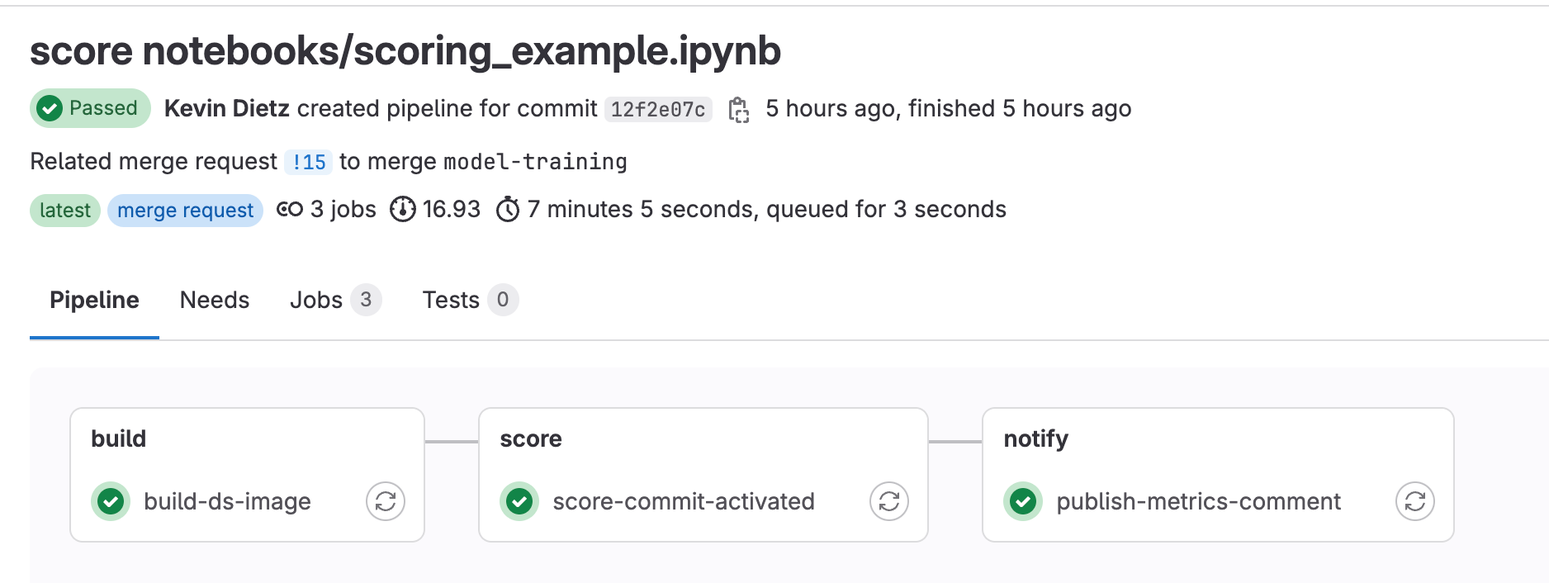
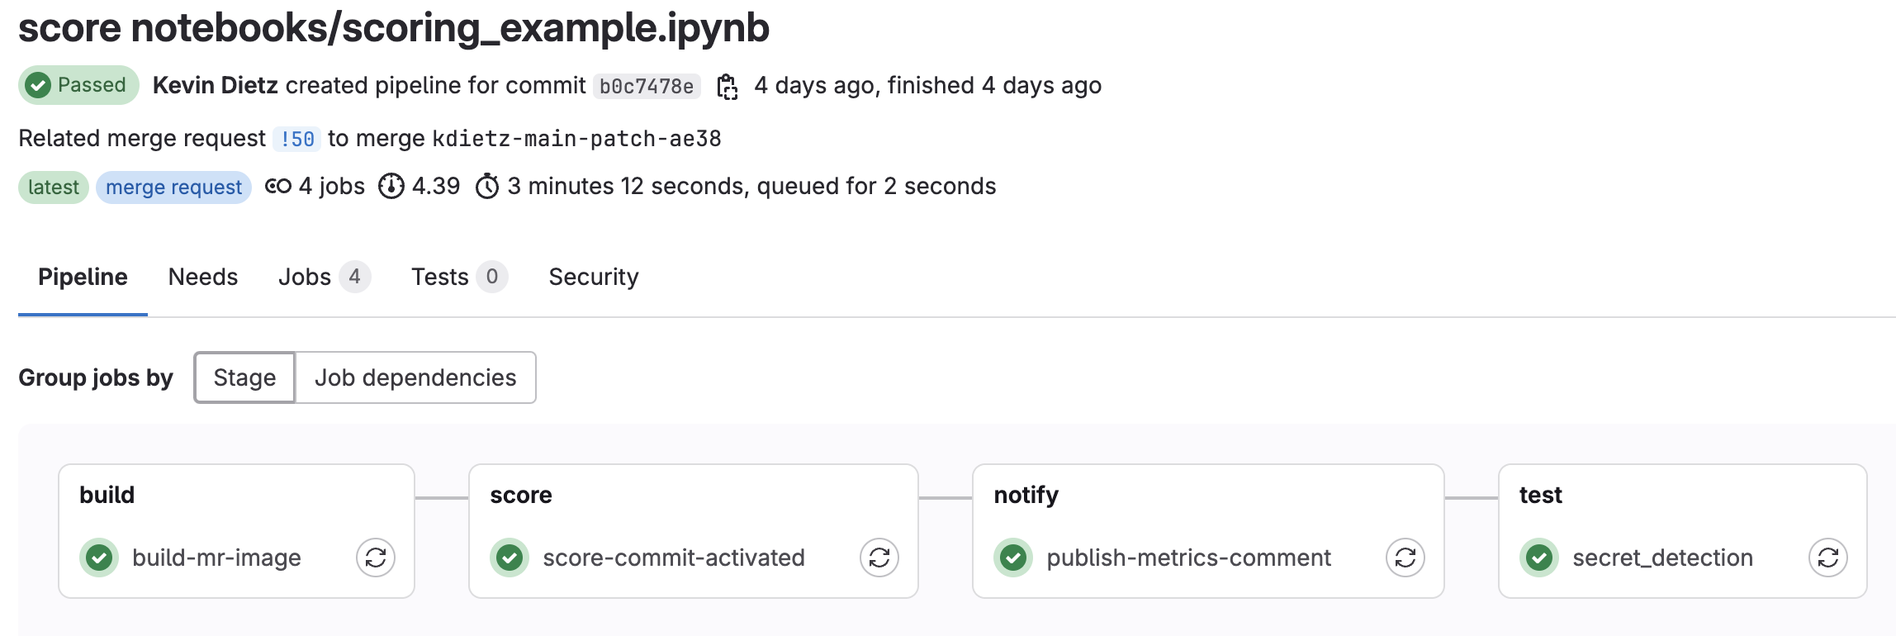
Update DS Pipeline Instructions

diff --git a/content/handbook/business-technology/data-team/platform/ci-for-ds-pipelines/index.md b/content/handbook/business-technology/data-team/platform/ci-for-ds-pipelines/index.md
@@ -7,7 +7,7 @@ description: "How to Run Data Science Pipelines Using GitLab CI/CD"
 
 ## Our Approach to Using CI/CD For Data Science
 
-When it comes to training and scoring machine learning models, there are trade-offs to using your local machine vs. CI. Our approach is flexible to allow users to do both.
+When it comes to training, scoring, and deploying machine learning models, there are trade-offs to using your local machine vs. CI. Our approach is flexible to allow users to do both.
 
 - When executing training or scoring runs on your local machine, users will be able to:
   - Execute training or scoring code using local resources and python builds specific to the machine
@@ -16,18 +16,18 @@ When it comes to training and scoring machine learning models, there are trade-o
   - Commit changes to the repository that will ***not*** trigger a CI pipeline
 
 - When executing training or scoring runs remotely using GitLab CI/CD, users will be able to:
-  - Select CPU or GPU compute instance based on the needs of the model
+  - Select CPU or GPU runners based on the size and needs of the model
   - Automatically detect and rebuild the model image based on changes to **Dockerfile** or **requirements.txt**
+  - Use different containers for different models in development, staging, and production
   - Log, view, and retrieve experiments in your preferred experiment tracker
-  - Upload and download model artifacts directly to the GitLab package registry
+  - Upload and download model artifacts directly to the GitLab model registry
   - Automatically report model metrics and performance in the merge request for review by others.
-  - Commit changes to the repository and automatically trigger training CI pipelines based on a specific commit message
+  - Commit changes to the repository and automatically trigger CI pipelines based on a specific commit message
     - Training CI pipelines only execute with the following commit message: `train <path/to/notebook/your_notebook.ipynb>`
-    - Allows the pipeline to execute just the desired notebook
-  - Commit changes to the repository and automatically trigger the scoring CI pipeline based on a specific commit message
     - Scoring CI pipeline only executes with the following commit message: `score <path/to/notebook/your_notebook.ipynb>`
+    - Allows the pipeline to execute just the desired notebook
   - Allow training and scoring CI pipelines to run at set dates and times using [Scheduled pipelines](https://docs.gitlab.com/ee/ci/pipelines/schedules.html)
-  - Log pipeline results to [Project wiki](https://docs.gitlab.com/ee/user/project/wiki/)
+  - Log results to [Project wiki](https://docs.gitlab.com/ee/user/project/wiki/)
   - Use [GitLab for Slack](https://docs.gitlab.com/ee/user/project/integrations/gitlab_slack_application.html) integration to monitor pipeline status
 
 ### Advantages of Using CI for Training Data Science Models
@@ -35,6 +35,7 @@ When it comes to training and scoring machine learning models, there are trade-o
 - Reproducibility
 - Automation
 - Speed
+- Separate development, staging, and production environments
 - Logging results directly to Merge Request and Project Wiki
 - Scalable GPU and CPU resources
 - Scheduling
@@ -42,21 +43,19 @@ When it comes to training and scoring machine learning models, there are trade-o
 
 ## Getting Started
 
-This section covers, in detail, the mechanisms behind how these pipelines is created and configured. **If you are just interested in getting your data science CI training pipeline up and running, skip directly to the [Model Training Step-by-Step Instructions](/handbook/business-technology/data-team/platform/ci-for-ds-pipelines#model-training-step-by-step-instructions)**
-
-**If you are just interested in getting your data science CI scoring pipeline up and running, skip directly to the [Scoring and Productionalization Step-by-Step Instructions](/handbook/business-technology/data-team/platform/ci-for-ds-pipelines#scoring-and-productionalization-step-by-step-instructions)**
+This section covers, in detail, the mechanisms behind how these pipelines are created and configured. **If you are just interested in getting your data science CI training pipeline up and running, skip directly to the [Model Training Step-by-Step Instructions](/handbook/business-technology/data-team/platform/ci-for-ds-pipelines#step-by-step-instructions). If you are just interested in getting your data science CI scoring pipeline up and running, skip directly to the [Scoring Step-by-Step Instructions](/handbook/business-technology/data-team/platform/ci-for-ds-pipelines#scoring-setup) and [Model Deployment with CI/CD](/handbook/business-technology/data-team/platform/ci-for-ds-pipelines#model-deployment-with-cicd) sections**
 
 ### Key Repository Files
 
 Within our public **[GitLab Data Science CI Example](https://gitlab.com/gitlab-data/data-science-ci-example)** repository are the following key files:
 
-- **.gitlab-ci.yml**: This is the CI/CD configuration file that define the jobs that define the jobs that will be run in each pipeline. The actual pipelines are pulled from the [CI/CD Component Catelog](https://gitlab.com/explore/catalog/gitlab-data/ds-component-pipeline), with only the variables that need specified by the user set in this .yml.
-- **Dockerfile**: Instructions for creating the docker image. Here we are using python 3.9 running on Ubuntu 22.04 with CUDA drivers for GPU
-- **requirements.txt**: The python packages to install in the docker container
+- **.gitlab-ci.yml**: This is the CI/CD configuration file that defines the jobs that will be run for each pipeline. The actual pipelines are pulled from the [CI/CD Component Catalog](https://gitlab.com/explore/catalog/gitlab-data/ds-component-pipeline), with only the variables that need specified are set in this .yml.
+- **Dockerfile**: Instructions for creating the docker image used in the Container Registry. Here we are using python 3.9 running on Ubuntu 22.04 with CUDA drivers for GPU
+- **requirements.txt**: The python packages to install in the container
 - **training_config.yaml**: Configuration for training notebook
 - **scoring_config.yaml**: Configuration for scoring notebook
 - **notebooks/training_example.ipynb**: training notebook used for this example
-- **notebooks/scoring_example.ipynb**: scoring code productionalization notebook used for this example
+- **notebooks/scoring_example.ipynb**: scoring code notebook used for this example
 - **xgb_model.json**: The saved model from training that will be used for scoring (Note: in future iterations this will be pulled directly from the [Model Registry](https://docs.gitlab.com/ee/user/project/ml/model_registry/))
 
 ## Model Training with CI/CD
@@ -64,11 +63,14 @@ Within our public **[GitLab Data Science CI Example](https://gitlab.com/gitlab-d
 ### Training Pipeline
 
 1. **Build**
-   - **build-ds-image**: activated whenever changes are made to the **Dockerfile** or **requirements.txt** files. This will rebuild the image used to train the model
+   - **build-new-image**: activated whenever changes are made to the **Dockerfile** or **requirements.txt** files. This will rebuild the image used in the MR to train the model
+   - **build-mr-image**: Checks if a image exists in the Container Registry for the MR. If not, one will be built.
 2. **Train**
    - **train-commit-activated**: To execute a training pipeline. Activated by using the `train <path/to/notebook/your_notebook.ipynb>` commit message
 3. **Notify** (optional)
-   - **publish-metrics-comment**: Write model metrics as a comment to the merge request. This is executed after a training or scoring run is performed via commit message.
+   - **publish-metrics-comment**: Write model metrics as a comment to the merge request. This is executed after a training or scoring run is performed through the commit message method.
+4. **Test** (optional)
+   - **secret_detection**: [Pipeline secret detection](https://docs.gitlab.com/ee/user/application_security/secret_detection/) to scan for potential exposed secrets in your pipeline
 
 ![CI Jobs](ci-pipelines.png)
 
@@ -78,10 +80,10 @@ Let's take a detailed look at the repository (**Code -> Repository**):
 
 - In the **notebooks** directory, open [training_example.ipynb](https://gitlab.com/gitlab-data/data-science-ci-example/-/blob/main/notebooks/training_example.ipynb). We do not need to change anything in here, but note the first cell of the notebook. [Papermill](https://papermill.readthedocs.io/en/latest/#) will be used to execute this notebook in the CI pipeline and this cell has been tagged as `parameters` to allow Papermill to change these values. There are 3 variables with preset values:
   - `is_local_development = True`: The default assumption is that the notebook is being run locally. The CI pipeline will modify this value to `False` automatically so the notebook can be optimized to run in CI
-  - `tree_method = 'auto'`: The default value for xgboost. The CI pipeline changes this value to `gpu_hist` when using a GPU runner in CI to take advantage certain performance enhancements. The assumption that is the model will train via CPU when run locally due to lack of a compatible local GPU.
+  - `tree_method = 'auto'`: The default value for xgboost. The CI pipeline changes this value to `gpu_hist` when using a GPU runner in CI to take advantage certain performance enhancements. The assumption that is the model will train with CPU when run locally due to lack of a compatible local GPU.
   - `notebook_dir = 'notebooks'`: The directory of the training notebooks. This value is the same locally as it is the CI pipeline.
 - To see exactly how the CI pipeline changes these values, let's view [.gitlab-ci.yml](https://gitlab.com/gitlab-data/data-science-ci-example/-/blob/main/.gitlab-ci.yml). Because we are using a component from the [CI/CD catalog](https://gitlab.com/explore/catalog), we actually want to look at the [Data Science ML Component Pipeline](https://gitlab.com/gitlab-data/ds-component-pipeline/-/blob/main/templates/ds-pipeline/template.yml?ref_type=heads). In this file, search for `train-commit-activated`. This is the most important stage in the CI pipeline. A few things to note:
-  - `image: $CONTAINER_IMAGE`: The training job will use the container created in the build job (as defined by `build-ds-image`), using the [Dockerfile](https://gitlab.com/gitlab-data/data-science-ci-example/-/blob/main/Dockerfile) and [requirements.txt](https://gitlab.com/gitlab-data/data-science-ci-example/-/blob/main/requirements.txt) files in the repository.
+  - `image: $CONTAINER_IMAGE:$IMAGE_TAG`: The training job will use the container created in the build job (as defined in `build-mr-image`), using the [Dockerfile](https://gitlab.com/gitlab-data/data-science-ci-example/-/blob/main/Dockerfile) and [requirements.txt](https://gitlab.com/gitlab-data/data-science-ci-example/-/blob/main/requirements.txt) files in the repository.
   - `tags`: Determines which runner to use. We want to be able to change the runner based on the project needs. This gets specified by `TRAIN_RUNNER` in [.gitlab-ci.yml](https://gitlab.com/gitlab-data/data-science-ci-example/-/blob/main/.gitlab-ci.yml) located back in our project repository
   - `script`:
         ...
@@ -95,7 +97,7 @@ Let's take a detailed look at the repository (**Code -> Repository**):
     - `experiment_name`: Name of your MLFlow Experiment
     - `run_name`: ID or name of the MLFlow Experiment Run
 
-### Model Training Step-by-Step Instructions
+### Step-by-Step Instructions
 
 1. [Fork](https://docs.gitlab.com/ee/user/project/repository/forking_workflow.html) the public [GitLab Data Science CI Example](https://gitlab.com/gitlab-data/data-science-ci-example) repository. Forking will allow you to further customize the code to meet your own needs.
 1. Optional (but recommended) Configurations:
@@ -106,21 +108,19 @@ Let's take a detailed look at the repository (**Code -> Repository**):
       - Create the following new CI Variables (**Settings -> CI/CD -> Variables -> Add New Variable**):
          - `MLFLOW_TRACKING_TOKEN`: For the value, enter the project access token value created above.
          - `MLFLOW_TRACKING_URI`: For the value, use the GitLab API MLFlow endpoint as outlined in the MLFlow instructions above. It should look something like: `https://gitlab.com/api/v4/projects/<your_project_id>/ml/mlflow`. Project ID can be found in **Settings -> General**
-         - ***Note:*** For all varibles, untick the "Protect Variable" flag to enable experiment tracking on unprotected branches. Tick "Mask variable" to prevent the value from showing in the logs.
+         - ***Note:*** For all variables, deselect the "Protect Variable" flag to enable experiment tracking on unprotected branches. Tick "Mask variable" to prevent the value from showing in the logs.
    - Write Model Metrics to Merge Request
       - Create the following new CI/CD Variable (**Settings -> CI/CD -> Variables -> Add New Variable**):
          - `REPO_TOKEN`: For the value, enter the project access token value created above.
-         - ***Note:*** Untick the "Protect Variable" flag to enable experiment tracking on unprotected branches. Tick "Mask variable" to prevent the value from showing in the logs. ![Create CI Variables](create_ci_variables.png)
+         - ***Note:*** De-select the "Protect Variable" flag to enable experiment tracking on unprotected branches. Tick "Mask variable" to prevent the value from showing in the logs. ![Create CI Variables](create_ci_variables.png)
 1. Now, let's make some changes to activate our training pipeline:
 1. Create a new branch (**Code -> Branches -> New Branch**)
      - <img src="new_branch.png" width="500" alt="">
-1. First let's make sure the `build-ds-image` will get triggered, which will build the container our model will run in. This job of the pipeline is only activated when changes are detected in **Dockerfile** or **requirements.txt**. So let's make a change:
-     - Edit **Dockerfile**, replacing the maintainer value with your GitLab handle and commit the change to your branch. ![Edit Dockerfile](edit_dockerfile.png)
-1. Configure your runners:
-     - GPU runners are available for Premium and Ultimate users. If enabled, edit `.gitlab-ci.yml` and change the value of `TRAIN_RUNNER` to a GPU runner (i.e. `saas-linux-medium-amd64-gpu-standard`).
-     - The default value, `saas-linux-small-amd64`, will work for all account types.
+1. (Optional) Configure your runners:
+     - GPU runners are available for Premium and Ultimate users. If enabled, edit `.gitlab-ci.yml` and change the value of `TRAIN_RUNNER` to a GPU runner (e.g. `saas-linux-medium-amd64-gpu-standard`).
+     - The default value `saas-linux-small-amd64` will work for all account types.
 1. Edit **training_config.yaml**
-     - Change `n_trials` to a new value between `10` and `20`.
+     - Let's make a change so that we have something to commit. Change `n_trials` to a new value between `10` and `20`.
      - For the commit message enter `train notebooks/training_example.ipynb`. This will tell the GitLab that you want to execute the training CI pipeline on the **training_example.ipynb** notebook found in the notebooks directory. Commit the change. ![Edit Config](edit_config.png)
 1. Click "**Create merge request**". Make sure you are merging into your local fork and click "**Create merge request**" once again. This should activate the training CI pipeline for the newly created MR.
 1. Click on "**Pipelines**" and you should see the training pipeline running. Click into the pipeline to see which stage the pipeline is in.
@@ -133,38 +133,42 @@ Let's take a detailed look at the repository (**Code -> Repository**):
    - Run details are displayed, including a link to the CI job, the merge request, various parameters and metrics, and model artifacts. ![Experiment Tracker](experiment.png)
    - Click on "Artifacts". This will take you to the Package Registry, where all the artifacts associated with that particular model run are stored. You should see the .json model file, a .yaml configuration file, and a requirements.txt. These can be used later to deploy your model. ![Artifacts](artifacts.png)
 1. Finally, let's look at the container that was used to train the model (**Deploy -> Container Registry**)
-   - This container will be used in subsequent runs of the model and will only get rebuilt when **Dockerfile** or **requirements.txt** are modified. ![Container](container.png)
+   - By default, the container `datascience-images` is used (this can be change this in [.gitlab-ci.yml](https://gitlab.com/gitlab-data/data-science-ci-example/-/blob/main/.gitlab-ci.yml) through the `DS_CONTAINER_IMAGE` optional input)
+   - Click into `datascience-images` and you should see a new tag that was used to score the model in the merge requests. This tag was created by the CI pipeline, and each MR and model release will have it's own container tag.
 
-## Scoring and Productionalization with CI/CD
+## Model Scoring with CI/CD
 
 ### Scoring Pipeline
 
 1. **Build**
-   - **build-ds-image**: activated whenever changes are added to the **Dockerfile** or **requirements.txt** files. This will rebuild the image used to score the model. Ideally, this should be the same image that was used to train the model.
+   - **build-new-image**: activated whenever changes are made to the **Dockerfile** or **requirements.txt** files. This will rebuild the image used in the MR to score the model
+   - **build-mr-image**: Checks if a image exists in the Container Registry for the MR. If not, one will be built.
 2. **Score**
    - **score-commit-activated**: To manually execute a scoring pipeline. Activated by using `score <path/to/notebook/your_notebook.ipynb>` in the commit message
    - **score-scheduled**: To execute a scoring pipeline based on a defined schedule using [Scheduled pipelines](https://docs.gitlab.com/ee/ci/pipelines/schedules.html)
 3. **Notify** (Optional)
-   - **publish-metrics-comment**: Write model performance metrics as a comment on the merge request. This is executed after a scoring run is performed via commit message.
+   - **publish-metrics-comment**: Write model performance metrics as a comment on the merge request. This is executed after a scoring run is performed through the commit message method.
    - **write-to-wiki**: Write model performance metrics and job details to the project wiki. The CI configuration it set up to only execute for scheduled jobs that use the `score-scheduled` job
 
 ![CI Jobs](ci-pipelines.png)
 
-### Productionalization Setup
+### Scoring Setup
 
 Let's take a detailed look at the repository (**Code -> Repository**):
 
-- In the **notebooks** directory, open [scoring_example.ipynb](https://gitlab.com/gitlab-data/data-science-ci-example/-/blob/main/notebooks/scoring_example.ipynb). We do not need to change anything in here, but note the first cell of the notebook. [Papermill](https://papermill.readthedocs.io/en/latest/#) will be used to execute this notebook in the CI pipeline and this cell has been tagged as `parameters` to allow Papermill to change these values. There are 2 variables with preset values:
+- In the **notebooks** directory, open [scoring_example.ipynb](https://gitlab.com/gitlab-data/data-science-ci-example/-/blob/main/notebooks/scoring_example.ipynb). We do not need to change anything in here, but note the first cell of the notebook. [Papermill](https://papermill.readthedocs.io/en/latest/#) will be used to execute this notebook in the CI pipeline and this cell has been tagged as `parameters` to allow Papermill to change these values. There are 3 variables with preset values:
   - `is_local_development = True`: The default assumption is that the notebook is being run locally. The CI pipeline will modify this value to `False` automatically so the notebook can be optimized to run in CI
+  - `ci_pipeline_source = ""`: This passes the [pipeline source variable value](https://docs.gitlab.com/ee/ci/jobs/job_rules.html#ci_pipeline_source-predefined-variable) to the notebook. In our example, we only want scores to be uploaded to a SQL table when the pipeline is triggered by a schedule (i.e. `ci_pipeline_source == 'schedule'`). This allows us to differentiate between manual scoring runs and scheduled production scoring runs.
+- To see exactly how the CI pipeline changes these values, now let's view [.gitlab-ci.yml](https://gitlab.com/gitlab-data/data-science-ci-example/-/blob/main/.gitlab-ci.yml). Because we are using a component from the CI/CD catalog
   - `notebook_dir = 'notebooks'`: The directory of the scoring notebook (can be the same directory as the training notebooks). This value is the same locally as it is the CI pipeline.
-- To see exactly how the CI pipeline changes these values, now let's view [.gitlab-ci.yml](https://gitlab.com/gitlab-data/data-science-ci-example/-/blob/main/.gitlab-ci.yml). Because we are using a component from the CI/CD catelog, we actually want to look at the [Data Science ML Component Pipeline](https://gitlab.com/gitlab-data/ds-component-pipeline/-/blob/main/templates/ds-pipeline/template.yml?ref_type=heads). In this file, search for `score-commit-activated`. A few things to note:
+- To see exactly how the CI pipeline changes these values, now let's view [.gitlab-ci.yml](https://gitlab.com/gitlab-data/data-science-ci-example/-/blob/main/.gitlab-ci.yml). Because we are using a component from the CI/CD catalog, we actually want to look at the [Data Science ML Component Pipeline](https://gitlab.com/gitlab-data/ds-component-pipeline/-/blob/main/templates/ds-pipeline/template.yml?ref_type=heads). In this file, search for `score-commit-activated`. A few things to note:
   - This job will manually trigger when `score <path/to/notebook/your_notebook.ipynb>` is passed in the commit message.
-  - `image: $CONTAINER_IMAGE`: The scoring job will use the container created in the build job (as defined by `build-ds-image`), using the [Dockerfile](https://gitlab.com/gitlab-data/data-science-ci-example/-/blob/main/Dockerfile) and [requirements.txt](https://gitlab.com/gitlab-data/data-science-ci-example/-/blob/main/requirements.txt) files in the repository.
+  - `image: $CONTAINER_IMAGE:$IMAGE_TAG`: The training job will use the container created in the build job (as defined in `build-mr-image`), using the [Dockerfile](https://gitlab.com/gitlab-data/data-science-ci-example/-/blob/main/Dockerfile) and [requirements.txt](https://gitlab.com/gitlab-data/data-science-ci-example/-/blob/main/requirements.txt) files in the repository.
   - `tags`: Determines which runner to use. We want to be able to change the runner based on the project needs. This gets specified by `SCORE_RUNNER` in [.gitlab-ci.yml](https://gitlab.com/gitlab-data/data-science-ci-example/-/blob/main/.gitlab-ci.yml) located back in our project repository
   - `script`:
         ...
         - `papermill -p is_local_development False $notebookName -`: Tells Papermill to override the variable values defined in the first cell of the notebook with the values shown when running in CI.
-- There is also a `score-scheduled` job.
+- There is also a `score-scheduled` job, which we cover in more detail in Model Deployment
   - This will trigger the scoring notebook at a set time, using [Scheduled pipelines](https://docs.gitlab.com/ee/ci/pipelines/schedules.html)
   - This job will also trigger the `write-to-wiki` job, which will publish model metrics to the project wiki
 - Finally, let's look at the [scoring_config.yaml](https://gitlab.com/gitlab-data/data-science-ci-example/-/blob/main/scoring_config.yaml). Here we can configure certain variables for training our model:
@@ -172,16 +176,16 @@ Let's take a detailed look at the repository (**Code -> Repository**):
   - **fields**: List of the model fields. This is useful if the model is using only a subset of fields in a dataframe. In this example, all the fields in the dataframe are being used.
   - **decile_cuts**: Sometimes it's useful to include decile cuts from the validation dataset used during training. In this example, we included quintile cuts to illustrate how they can be used.
 
-### Scoring and Productionalization Step-by-Step Instructions
+### Step-by-Step Instructions
 
 1. Optional (but recommended) Wiki Configurations:
    - This allows you to log your scheduled runs to the GitLab [Project Wiki](https://docs.gitlab.com/ee/user/project/wiki/).
    - Create a new CI/CD Variable (**Settings -> CI/CD -> Variables -> Add New Variable**):
       - `API_ENDPOINT`: For the value, use the GitLab API endpoint (will be similar to the `MLFLOW_TRACKING_URI` set up during training) using the following format: `https://gitlab.com/api/v4/projects/<your_project_id>`. Project ID can be found in **Settings -> General**.
-      - **Note:** Untick the "Protect Variable" flag to enable experiment tracking on unprotected branches
+      - **Note:** De-select the "Protect Variable" flag to enable experiment tracking on unprotected branches
 1. Configure your runner:
-     - GPU runners are available for Premium and Ultimate users. If enabled, edit `.gitlab-ci.yml` and change the value of `SCORE_RUNNER` to a GPU runner (i.e. `saas-linux-medium-amd64-gpu-standard`).
-     - The default value, `saas-linux-small-amd64`, will work for all account types.
+     - GPU runners are available for Premium and Ultimate users. If enabled, edit `.gitlab-ci.yml` and change the value of `SCORE_RUNNER` to a GPU runner (e.g. `saas-linux-medium-amd64-gpu-standard`).
+     - The default value `saas-linux-small-amd64` will work for all account types.
 1. Now lets score our model using CI/CD
    - You can either create a new branch of the repository or use the same one as used above for training the model.
    - Make a change to `notebooks/scoring_example.ipynb` so that we have something to commit. This could be as simple as adding a line to one of the cells.
@@ -190,23 +194,48 @@ Let's take a detailed look at the repository (**Code -> Repository**):
    - Click on "**Pipelines**" and you should see the scoring pipeline running. Click into the pipeline to see which stage the pipeline is in.
    - **Note:** If you did not set up the step above "Write Model Metrics to Merge Request", then the `publish-metrics-comment` job will fail. The pipeline will still pass with warnings ![Scoring Pipeline Jobs](scoring_pipeline_jobs.png)
    - Once the pipeline has finished, you will see a new comment posted on the merge request that contains some model metrics from the run (assuming you set up Write Model Metrics to Merge Request). This is the same process you would have seen during training, except it is now writting out descriptives about the scored dataset.
-1. We can also set the model to score at a defined time using Pipeline Schedules
-   - Nagivate to **Build -> Pipeline schedules -> New schedule**
+
+## Model Deployment With CI/CD
+
+Now that we have our model trained and scoring pipeline set up, we can focus on deploying our model. Here we are going to focus on batch scoring so that the model scores are updated in batch once a day.
+
+### Advantages of Model Deployment in GitLab
+
+- **Centralized Model Management:** GitLab's Experiment Tracker and Model Registry provides a centralized location for storing, versioning, and managing machine learning models.
+- **Automated Deployment:** Use GitLab CI/CD to automate the deployment process, ensuring consistent and repeatable deployments across environments.
+- **Scalability:** GitLab's infrastructure allows for easy scaling of your model serving capabilities as demand grows. As the model grows, the size of the runner can be increased.
+- **Reproducibility:** By using GitLab's version control and CI/CD pipelines, you can ensure that your model training, scoring, and deployment processes are reproducible.
+- **Documentation and Logging:** Monitor model pipelines, receive slack notifications when failures occur, and log key metrics directly to the project wiki.
+- **Security:** Leverage GitLab's security features to ensure your models and data are protected throughout the deployment process.
+- **Continuous Improvement:** Models can be fine-tuned, retrained, and tested without disrupting models in production.
+- **Cost-Effective:** Resources are only consumed when the model runs, reducing the cost of running your models.
+
+### Step-by-Step Instructions
+
+1. Create a new tagged release
+   - Creating a tag will allow us to capture the state of the model at a specific point in time. Doing so will build a version of the model that will be deployed to production that won't be affected by changes to the repository after that point in time.
+   - Navigate to **Code -> Tag -> New Tag**
+   - Create a new tag (something like `1.0.0`) and click **Create Tag*
+   - This will trigger the deployment pipeline, which is build a new container tagged with a `production-` prefix (e.g. `production-1.0.0`)
+1. Setup a pipeline schedule
+   - Navigate to **Build -> Pipeline schedules -> New schedule**
    - Give your pipeline a description
    - Set when you want it to run. In the example below, the pipeline is scheduled to run every day at noon.
-   - Target branch: `main` will work for this example. (You could also set it to the branch are you are currently working in.)
-   - Variables: We only need to setup one variable, `SCORING_NOTEBOOK` with the location of the notebook we want to schedule `notebooks/scoring_example.ipynb`
+   - Set target tag to `1.0.0`. This is the tag we just created.
+   - We need to setup one variable, `SCORING_NOTEBOOK` with the location of the notebook we want to schedule `notebooks/scoring_example.ipynb`
    - Tick "Activated" and save the changes.
-   - <img src="Pipeline_schedule.png" width="700" alt="">
-1. The next time the schedule pipeline runs, it will output the results to the Project Wiki
+   - <img src="pipeline_schedule.png" width="700" alt="">
+1. Test out your schedule by manually triggering it
+   - Should see the pipeline start to run
+   - It will use the production container than was created when you created the `1.0.0` tag, named `production-1.0.0`
+1. View the logs and model metrics
    - Navigate to **Plan -> Wiki** and you will see a list by timestamp of all the times the scheduled pipeline has run, with links to the job logs and model metrics.
    - <img src="wiki.png" width="700" alt="">
+1. Configure Slack notifications (optional):
+   - In your GitLab project, go to **Settings -> Integrations -> GitLab for Slack**
+   - Follow the instructions in the [GitLab For Slack app documentation](https://docs.gitlab.com/ee/user/project/integrations/gitlab_slack_application.html)
+   - We've setup our slack notifications so that notifications are sent to our #data-science-pipelines channel only when a pipeline fails. If a pipeline succeeds, a notification is not sent.
+   - <img src="slack_notifications.png" width="700" alt="">
+   - Save your changes
 
-## Slack Notifications (optional)
-
-- In Slack, add the GitLab for Slack app
-- Follow the instructions in the [Gitlab For Slack app documentation](https://docs.gitlab.com/ee/user/project/integrations/gitlab_slack_application.html)
-- We've setup our slack notifications so that notifications are sent to our #data-science-pipelines channel only when a pipeline fails. If a pipeline succeeds, a notification is not sent.
-- <img src="slack_notifications.png" width="700" alt="">
-
-**And that's it! Feel free to modify these pipelines and notebooks to fit your data science modeling needs. And be sure to check out all the other great data science resources on our [Data Science Handbook Page](/handbook/business-technology/data-team/organization/data-science/). If you are experiencing any difficulty or if you have any suggestions to improve these pipelines, feel free to [open an issue with us](https://gitlab.com/gitlab-data/data-science-ci-example/-/issues/new). Happy pipelining!**
+**And that's it! By following these steps, you've successfully set up a production-ready data science pipeline using GitLab CI/CD. Feel free to modify these pipelines and notebooks to fit the needs our your models and tech stack. And be sure to check out all the other great data science resources on our [Data Science Handbook Page](/handbook/business-technology/data-team/organization/data-science/). If you are experiencing any difficulty or if you have any suggestions to improve these pipelines, feel free to [open an issue with us](https://gitlab.com/gitlab-data/data-science-ci-example/-/issues/new). Happy pipelining!**

diff --git a/content/handbook/business-technology/data-team/platform/jupyter-guide/index.md b/content/handbook/business-technology/data-team/platform/jupyter-guide/index.md
@@ -121,7 +121,7 @@ By default, rancher will allocate a small percentage of your machine's memory to
     1. Source the file (i.e. `source ./zshrc`) or exit terminal and restart
 1. Launch Jupyter. You should now be able to initialize the experiment tracker via the `mlflow.set_tracking_uri(os.getenv('MLFLOW_TRACKING_URI'))`command in Jupyter
 
-**Note:* If looking to connect to the Model Experiments via CI, refer to [Model Training Step-by-Step Instructions](/handbook/business-technology/data-team/platform/ci-for-ds-pipelines#model-training-step-by-step-instructions)**
+**Note:* If looking to connect to the Model Experiments via CI, refer to [Model Training Step-by-Step Instructions](/handbook/business-technology/data-team/platform/ci-for-ds-pipelines#step-by-step-instructions)**
 
 ## Updating the Image
 
